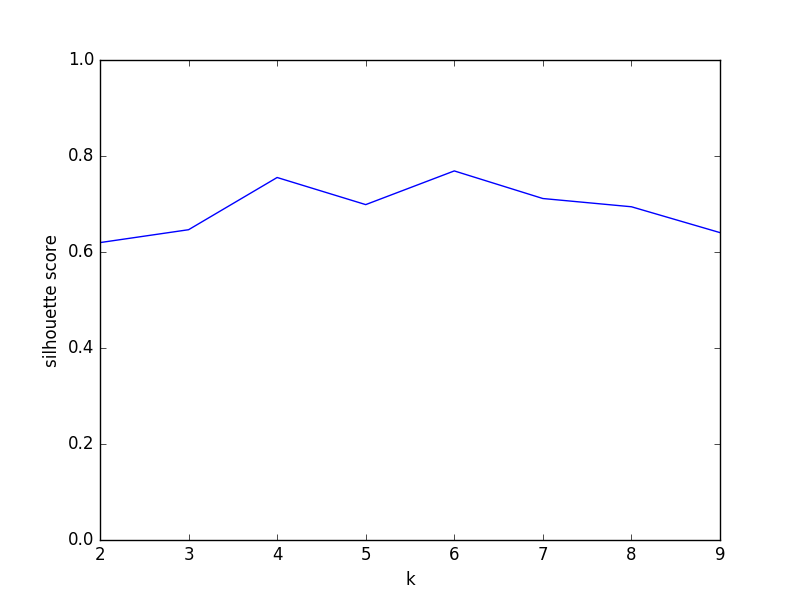
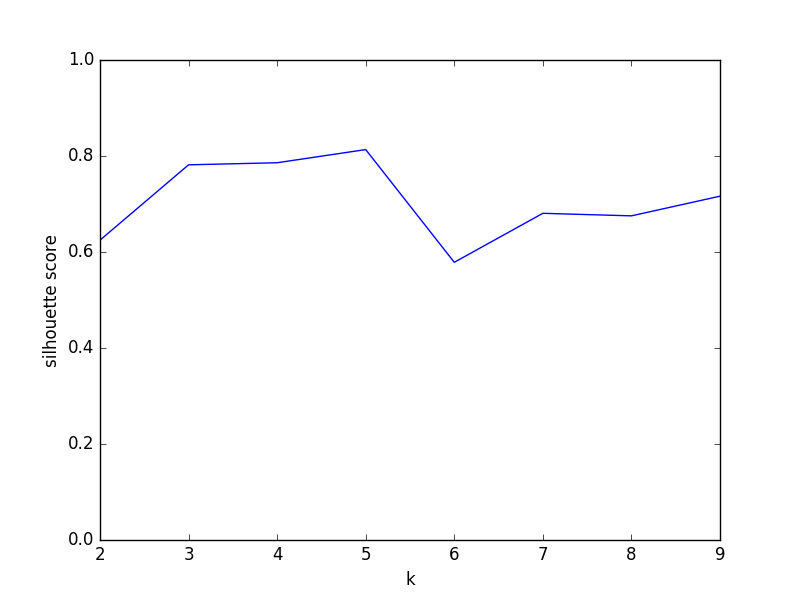
finished values

diff --git a/PythonCode/crowdsignals_ch5-own.py b/PythonCode/crowdsignals_ch5-own.py
@@ -39,6 +39,7 @@ clusteringNH = NonHierarchicalClustering()
 
 # Let us look at k-means first.
 
+'''
 k_values = range(2, 10)
 silhouette_values = []
 #
@@ -59,7 +60,7 @@ plot.ylim([0,1])
 plot.show()
 
 # And run the knn with the highest silhouette score
-
+print "kmeans 5"
 k = 5
 
 dataset_knn = clusteringNH.k_means_over_instances(copy.deepcopy(dataset), ['gyr_phone_x', 'gyr_phone_y', 'gyr_phone_z'], k, 'default', 50, 50)
@@ -67,7 +68,7 @@ DataViz.plot_clusters_3d(dataset_knn, ['gyr_phone_x', 'gyr_phone_y', 'gyr_phone_
 DataViz.plot_silhouette(dataset_knn, 'cluster', 'silhouette')
 util.print_latex_statistics_clusters(dataset_knn, 'cluster', ['gyr_phone_x', 'gyr_phone_y', 'gyr_phone_z'], 'label')
 del dataset_knn['silhouette']
-
+'''
 
 k_values = range(2, 10)
 silhouette_values = []
@@ -87,18 +88,18 @@ plot.ylim([0,1])
 plot.xlabel('k')
 plot.ylabel('silhouette score')
 plot.show()
-'''
+
 # And run k medoids with the highest silhouette score
+print "kmedoids 4"
+k = 5
 
-k = 6
-
-dataset_kmed = clusteringNH.k_medoids_over_instances(copy.deepcopy(dataset), ['light_phone_lux', 'gyr_phone_y', 'mag_phone_z'], k, 'default', 20, n_inits=50)
-DataViz.plot_clusters_3d(dataset_kmed, ['light_phone_lux', 'gyr_phone_y', 'mag_phone_z'], 'cluster', ['label'])
+dataset_kmed = clusteringNH.k_medoids_over_instances(copy.deepcopy(dataset), ['gyr_phone_x', 'gyr_phone_y', 'gyr_phone_z'], k, 'default', 20, n_inits=50)
+DataViz.plot_clusters_3d(dataset_kmed, ['gyr_phone_x', 'gyr_phone_y', 'gyr_phone_z'], 'cluster', ['label'])
 DataViz.plot_silhouette(dataset_kmed, 'cluster', 'silhouette')
-util.print_latex_statistics_clusters(dataset_kmed, 'cluster', ['light_phone_lux', 'gyr_phone_y', 'mag_phone_z'], 'label')
+util.print_latex_statistics_clusters(dataset_kmed, 'cluster', ['gyr_phone_x', 'gyr_phone_y', 'gyr_phone_z'], 'label')
 
 # And the hierarchical clustering is the last one we try
-
+'''
 clusteringH = HierarchicalClustering()
 
 k_values = range(2, 10)
@@ -109,12 +110,12 @@ silhouette_values = []
 print '===== agglomaritive clustering ====='
 for k in k_values:
     print 'k = ', k
-    dataset_cluster, l = clusteringH.agglomerative_over_instances(copy.deepcopy(dataset), ['light_phone_lux', 'gyr_phone_y', 'mag_phone_z'], k, 'euclidean', use_prev_linkage=True, link_function='ward')
+    dataset_cluster, l = clusteringH.agglomerative_over_instances(copy.deepcopy(dataset), ['gyr_phone_x', 'gyr_phone_y', 'gyr_phone_z'], k, 'euclidean', use_prev_linkage=True, link_function='ward')
     silhouette_score = dataset_cluster['silhouette'].mean()
     print 'silhouette = ', silhouette_score
     silhouette_values.append(silhouette_score)
     if k == k_values[0]:
-        #DataViz.plot_dendrogram(dataset_cluster, l)
+        DataViz.plot_dendrogram(dataset_cluster, l)
 	print "do not plot"
 
 plot.plot(k_values, silhouette_values, 'b-')
@@ -124,6 +125,5 @@ plot.ylabel('silhouette score')
 plot.show()
 
 # And we select the outcome dataset of the knn clustering....
-
-dataset_knn.to_csv(dataset_path + 'chapter5_result-own.csv')
 '''
+dataset_kmed.to_csv(dataset_path + 'chapter5_result-own.csv')

diff --git a/PythonCode/visualisations/kmediods.tex b/PythonCode/visualisations/kmediods.tex
@@ -1,0 +1,11 @@
+\multirow{2}{*}{ gyr_phone_x } & mean   &  97.73  &  283.03  &  327.01  &  283.36  &  115.84 \\
+ & std   &  18.64  &  10.13  &  13.87  &  14.09  &  36.27 \\
+\multirow{2}{*}{ gyr_phone_y } & mean   &  -3.34  &  158.55  &  -168.46  &  34.62  &  99.56 \\
+ & std   &  17.33  &  18.54  &  8.63  &  38.98  &  13.19 \\
+\multirow{2}{*}{ gyr_phone_z } & mean   &  -0.59  &  -57.43  &  -19.00  &  -19.90  &  2.48 \\
+ & std   &  3.37  &  4.01  &  21.21  &  12.42  &  5.93 \\
+labelOnTable  & percentage   &  100.00 \%  &  0.00 \%  &  0.00 \%  &  0.00 \%  &  0.00 \% \\
+labelSitting  & percentage   &  0.51 \%  &  43.66 \%  &  55.58 \%  &  0.25 \%  &  0.00 \% \\
+labelSmoking  & percentage   &  2.81 \%  &  0.56 \%  &  0.00 \%  &  4.49 \%  &  92.13 \% \\
+labelWalkingStairs  & percentage   &  7.41 \%  &  3.70 \%  &  0.00 \%  &  7.41 \%  &  81.48 \% \\
+labelStandingInElevator  & percentage   &  15.38 \%  &  0.00 \%  &  0.00 \%  &  38.46 \%  &  46.15 \% \\
